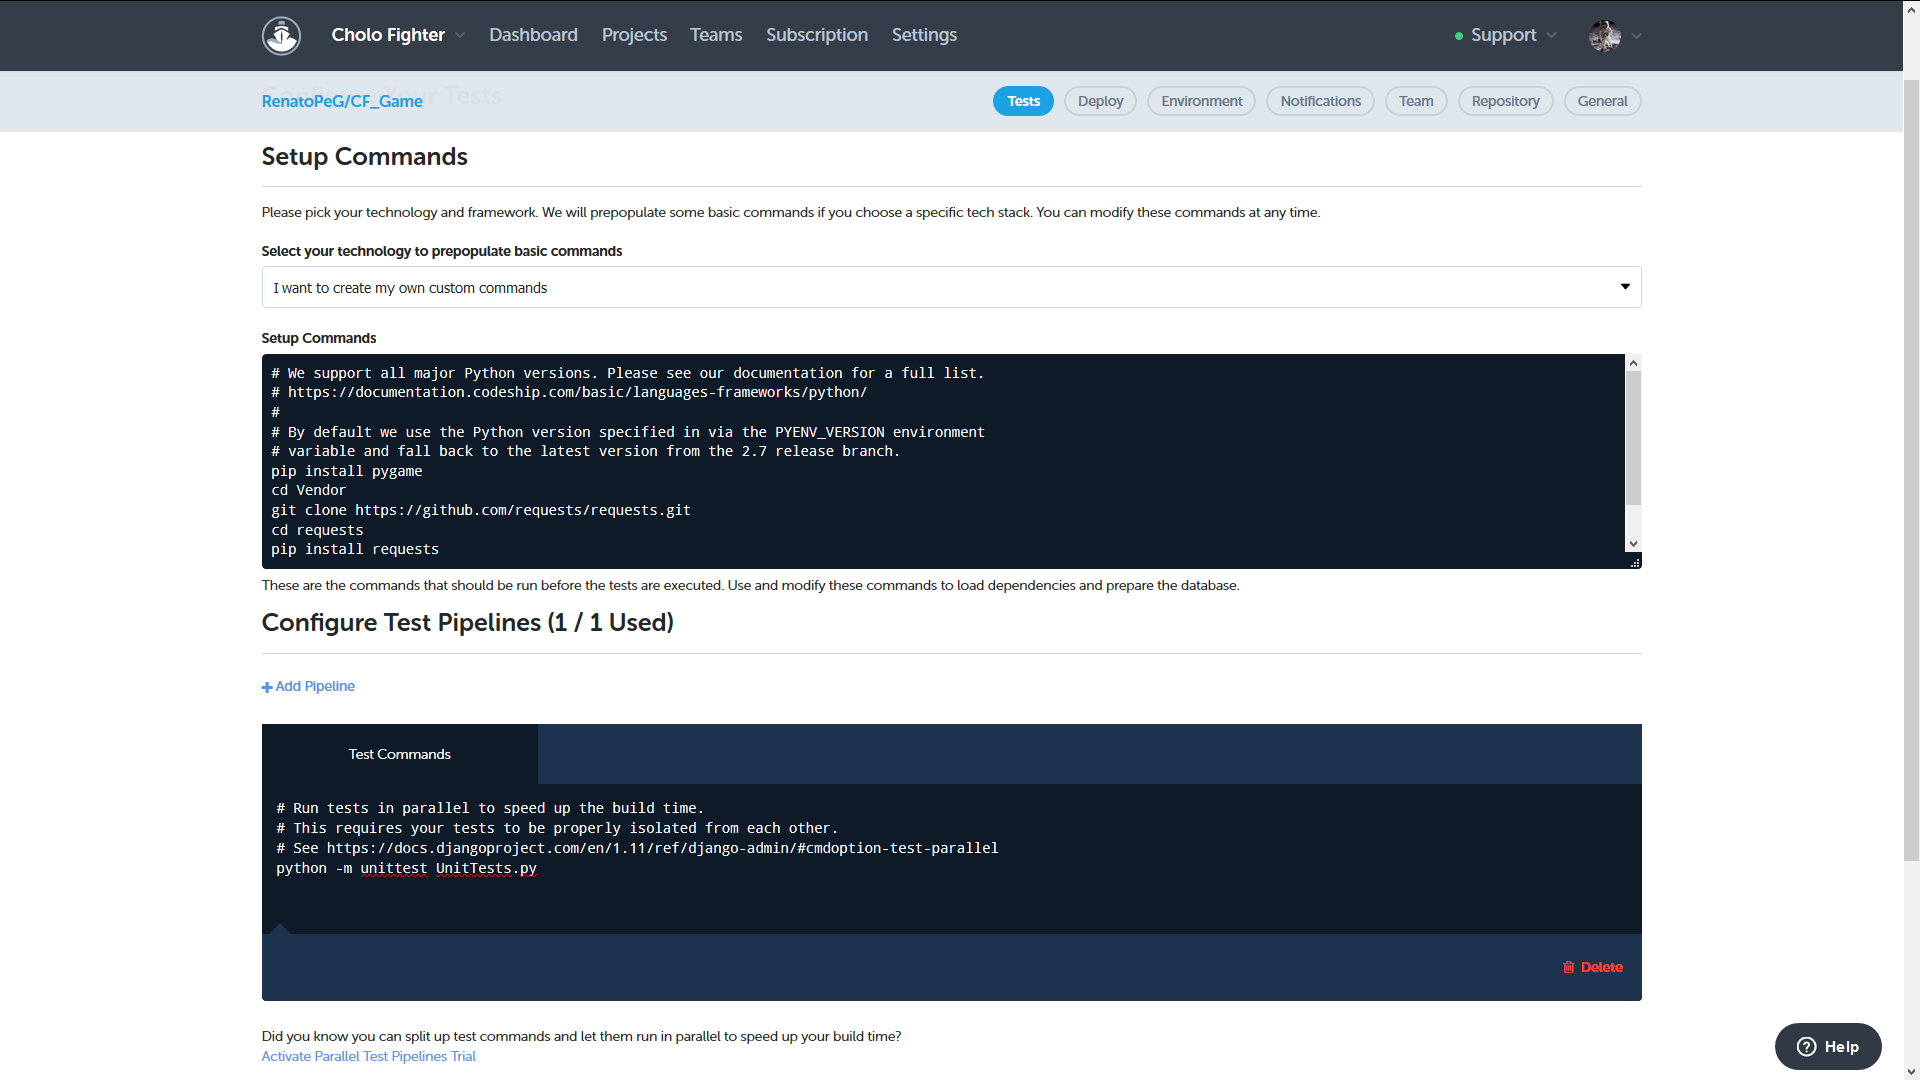
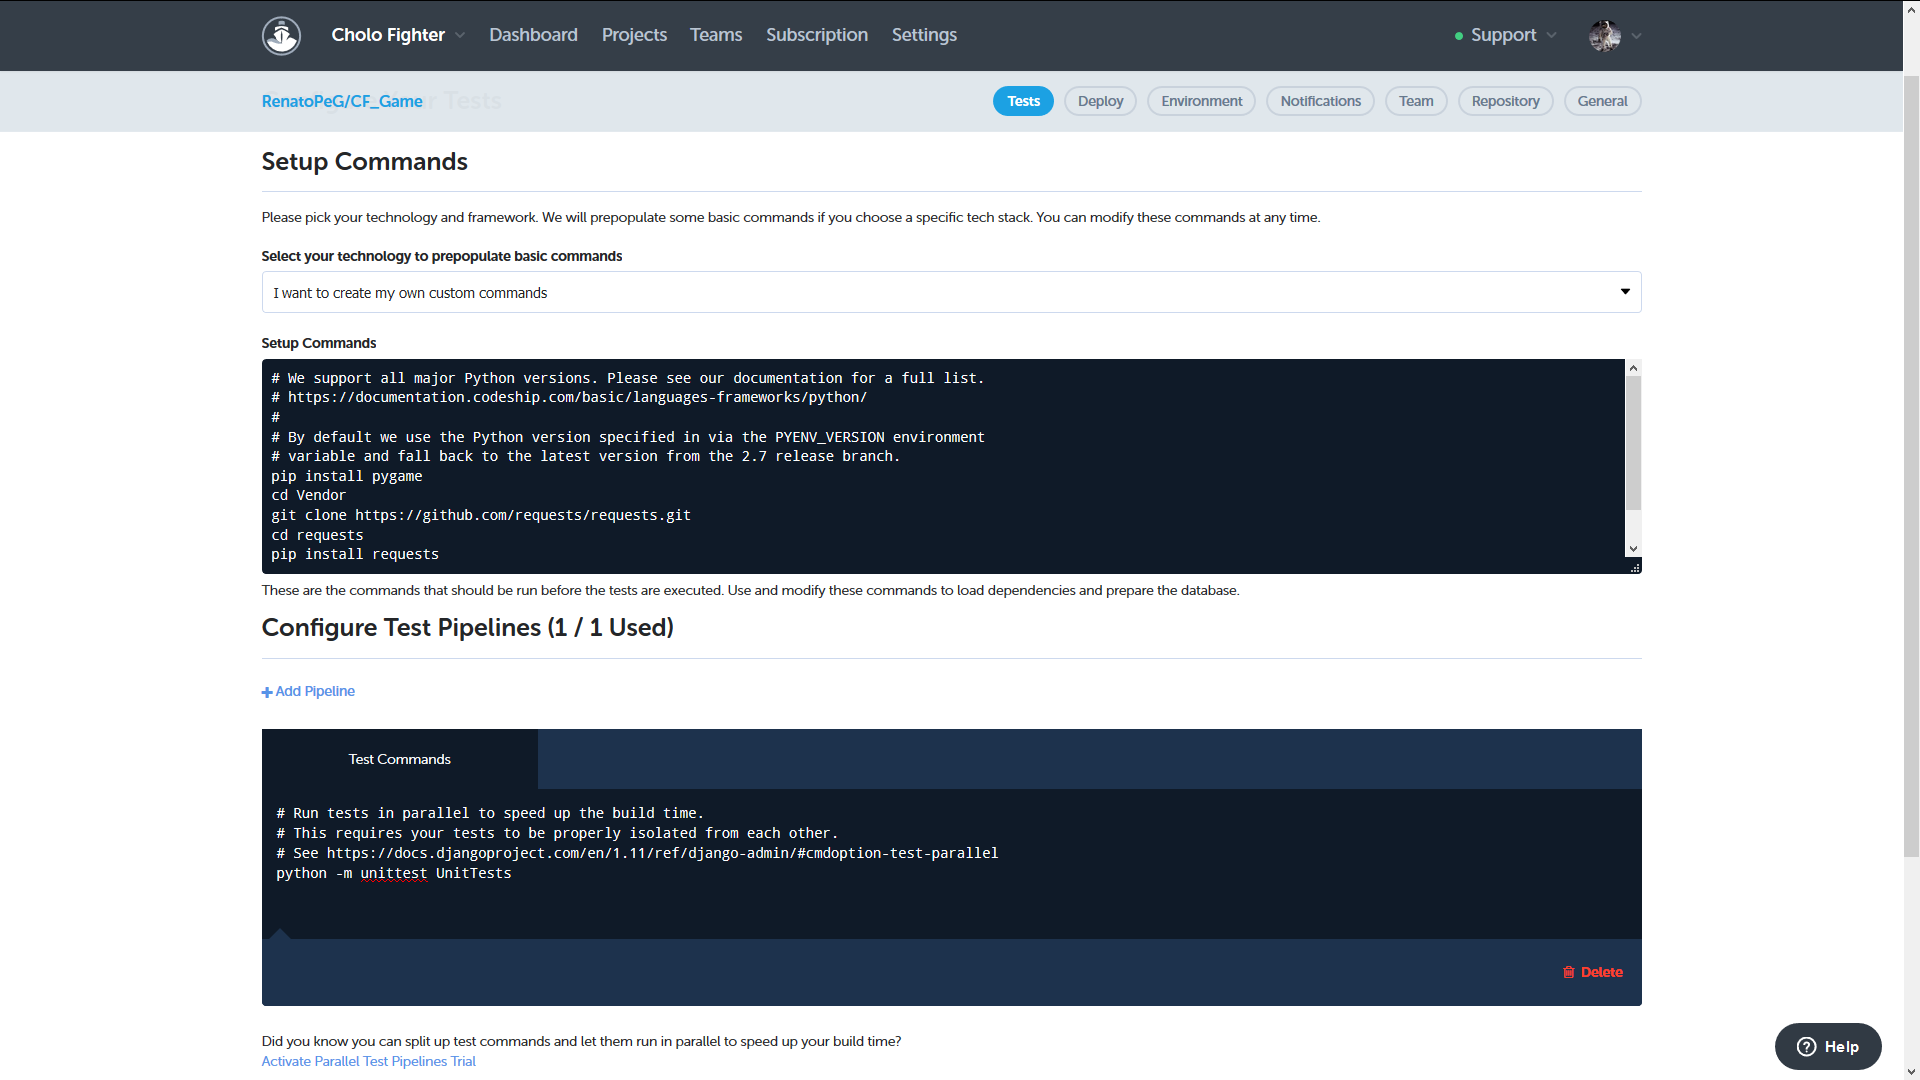
Incorrect command for Unit Tests 2

diff --git a/README.md b/README.md
@@ -4,7 +4,7 @@
 ## Tarea 4
 - (Requisito) Seguir los pasos de la Wiki (ver más abajo) antes de continuar
 - Las pruebas del desarrollo de la integración se encuentran en la carpeta Documentación/Integración
-- Para ejecutar las pruebas unitarias, estando en la carpeta raiz, ejecutar el comando `python -m unittest UnitTests.py`
+- Para ejecutar las pruebas unitarias, estando en la carpeta raiz, ejecutar el comando `python -m unittest UnitTests`
 
 ## Wiki
 
